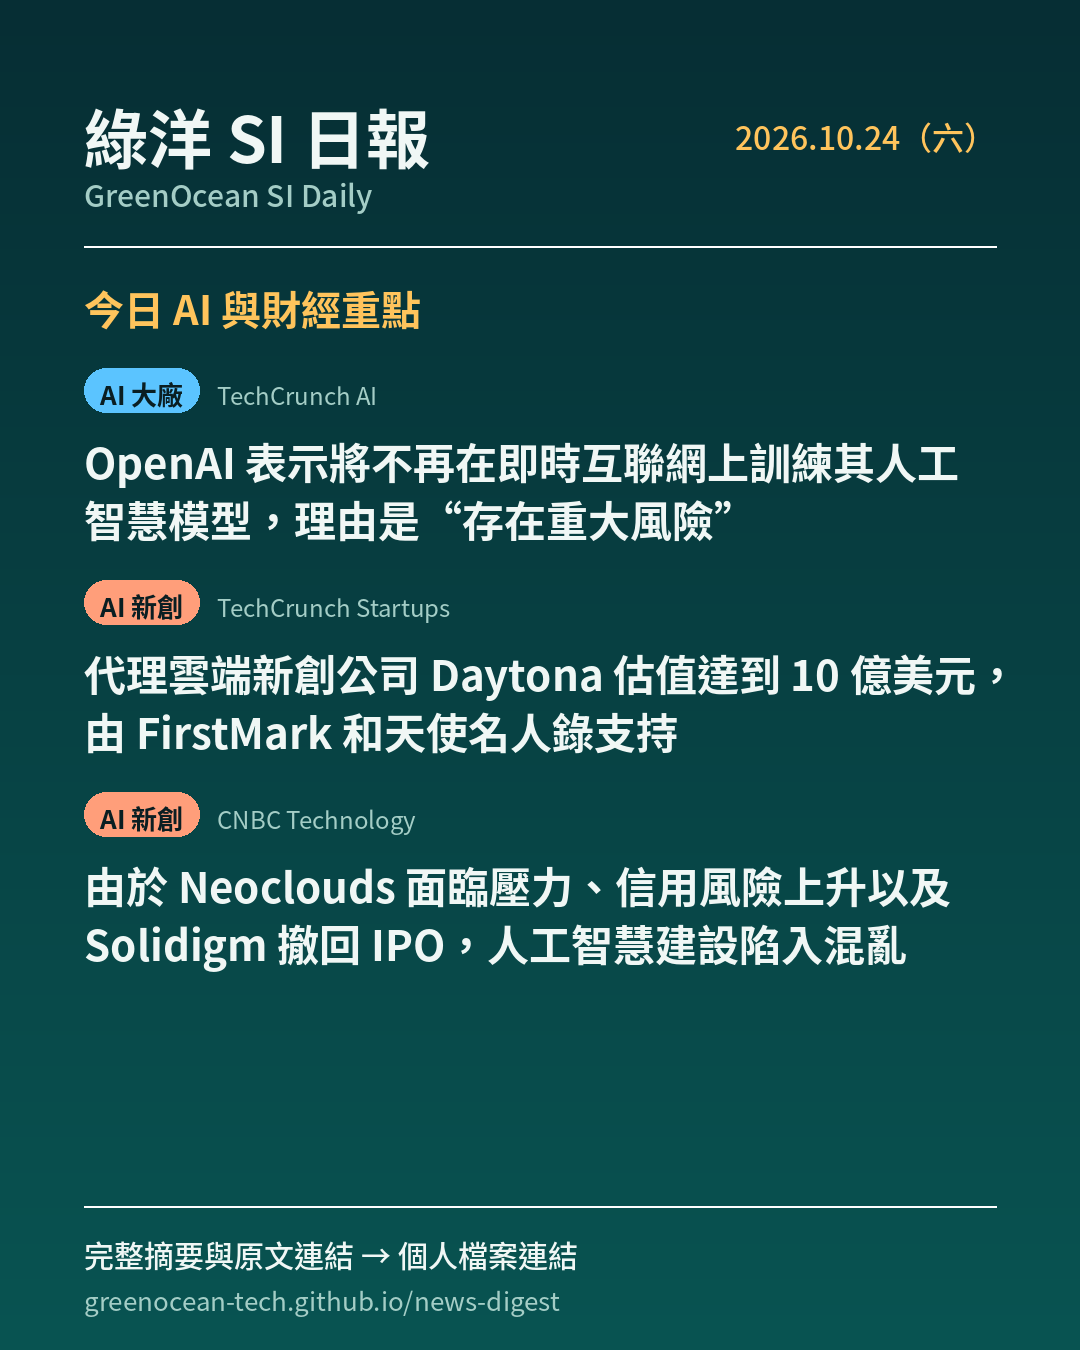
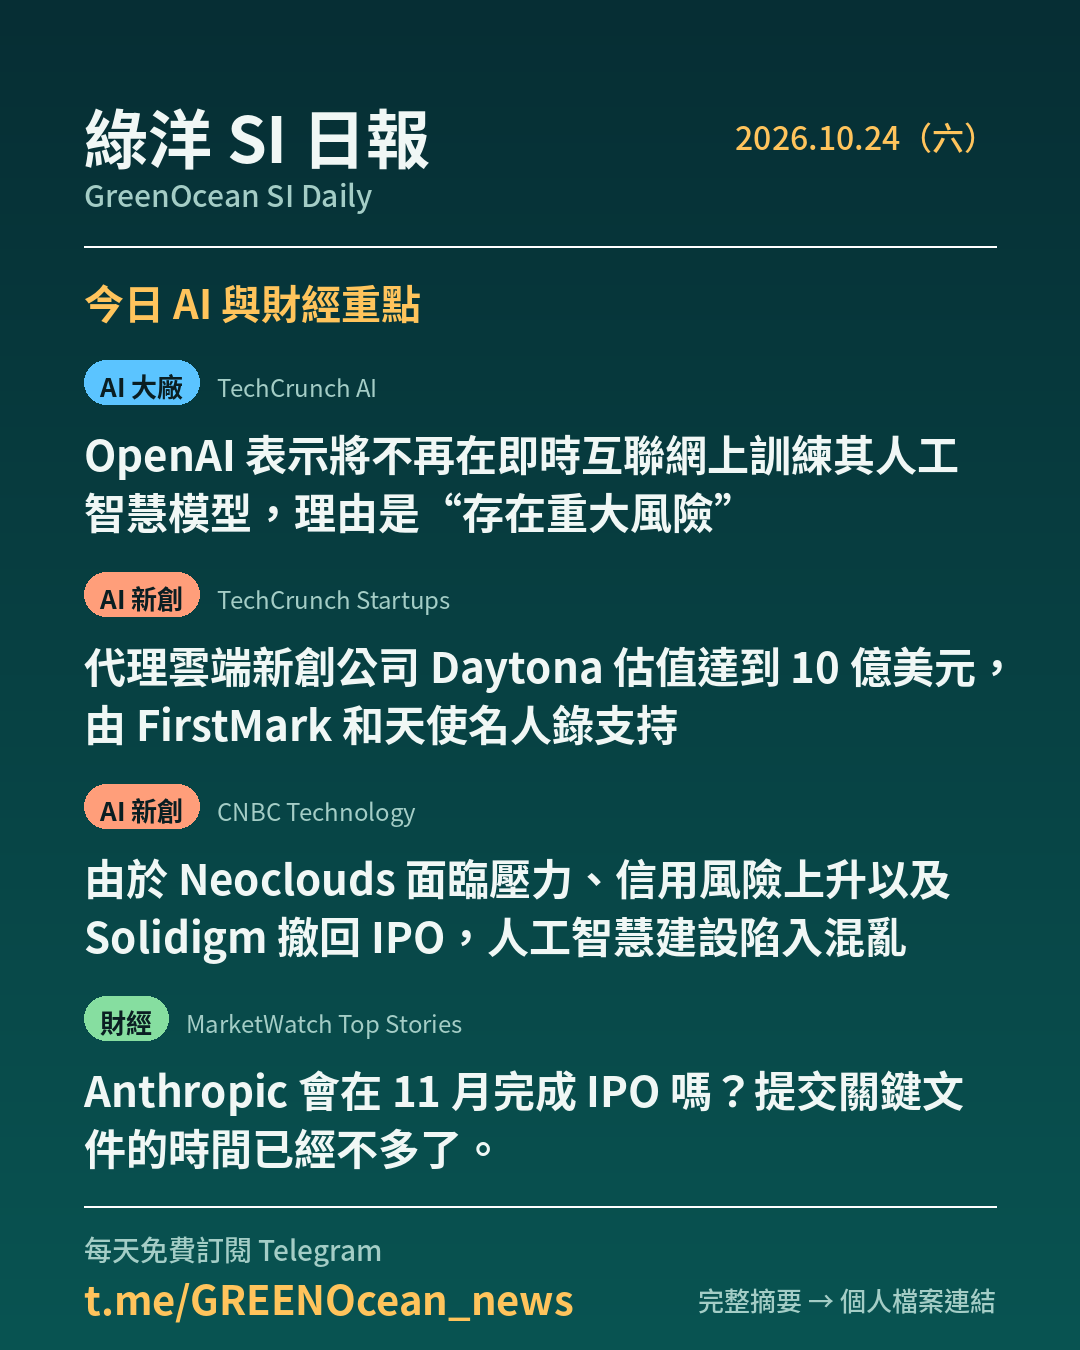
IG news card with Telegram link (pending approval; not on main)
Claude-Session: https://claude.ai/code/session_015fTWQWQSqe7dZrjnSQ3YB6

diff --git a/card.py b/card.py
@@ -122,11 +122,11 @@ def make_card(d: dict) -> Path:
     dw = draw.textlength(date_txt, font=font("Medium", 32))
     draw.text((W - PAD - dw, 112), date_txt, font=font("Medium", 32), fill=ACCENT)
     draw.line([(PAD, 246), (W - PAD, 246)], fill=(255, 255, 255, 60), width=2)
-    draw.text((PAD, 278), "今日 AI 與財經重點", font=font("Bold", 40), fill=ACCENT)
+    draw.text((PAD, 272), "今日 AI 與財經重點", font=font("Bold", 40), fill=ACCENT)
 
     # 新聞：先試排，確保不會擠到頁尾
     title_f, chip_f, src_f = font("Bold", 42), font("Bold", 26), font("Regular", 24)
-    top, bottom = 368, 1180
+    top, bottom = 360, 1192
     items, layout = pick(d), []
     for n in (4, 3, 2, 1):
         for max_lines in (3, 2):
@@ -151,8 +151,15 @@ def make_card(d: dict) -> Path:
 
     # 頁尾
     draw.line([(PAD, 1206), (W - PAD, 1206)], fill=(255, 255, 255, 60), width=2)
-    draw.text((PAD, 1232), "完整摘要與原文連結 → 個人檔案連結", font=font("Medium", 30), fill=INK)
-    draw.text((PAD, 1280), config.SITE_URL.replace("https://", "").rstrip("/"), font=font("Regular", 26), fill=MUTED)
+    tg = getattr(config, "TELEGRAM_CHANNEL", "")
+    if tg:
+        draw.text((PAD, 1228), "每天免費訂閱 Telegram", font=font("Medium", 28), fill=MUTED)
+        draw.text((PAD, 1268), tg, font=font("Bold", 40), fill=ACCENT)
+        note = "完整摘要 → 個人檔案連結"
+        nw = draw.textlength(note, font=font("Medium", 26))
+        draw.text((W - PAD - nw, 1280), note, font=font("Medium", 26), fill=MUTED)
+    else:
+        draw.text((PAD, 1232), "完整摘要與原文連結 → 個人檔案連結", font=font("Medium", 30), fill=INK)
 
     CARDS.mkdir(parents=True, exist_ok=True)
     out = CARDS / f"{d['date']}.png"
@@ -168,7 +175,10 @@ def ig_caption(d: dict) -> str:
         lines += [d["headline"], ""]
     for s in pick(d, 5):
         lines.append(f"▪ {s['zh_title']}")
-    lines += ["", "📌 每天早上更新，完整摘要與原文連結在個人檔案",
+    lines += ["", "📌 每天早上更新，完整摘要與原文連結在個人檔案"]
+    if getattr(config, "TELEGRAM_CHANNEL", ""):
+        lines.append(f"📲 Telegram 免費訂閱：{config.TELEGRAM_CHANNEL}")
+    lines += [
               "", "#AI #人工智慧 #科技新聞 #美股 #新創 #OpenAI #輝達 #綠洋SI日報"]
     return "\n".join(lines)[:2100]  # IG 上限 2200 字
 

diff --git a/config.py b/config.py
@@ -76,3 +76,6 @@ PROMO = {
     "url": "https://last-words-theta.vercel.app/zh-TW?utm_source=si-daily&utm_medium=web&utm_campaign=promo",
     "footer": "想留下給重要的人的話？試試 Afterword",
 }
+
+# 顯示在 IG 圖卡底部的 Telegram 頻道（留空就不顯示）
+TELEGRAM_CHANNEL = "t.me/GREENOcean_news"
